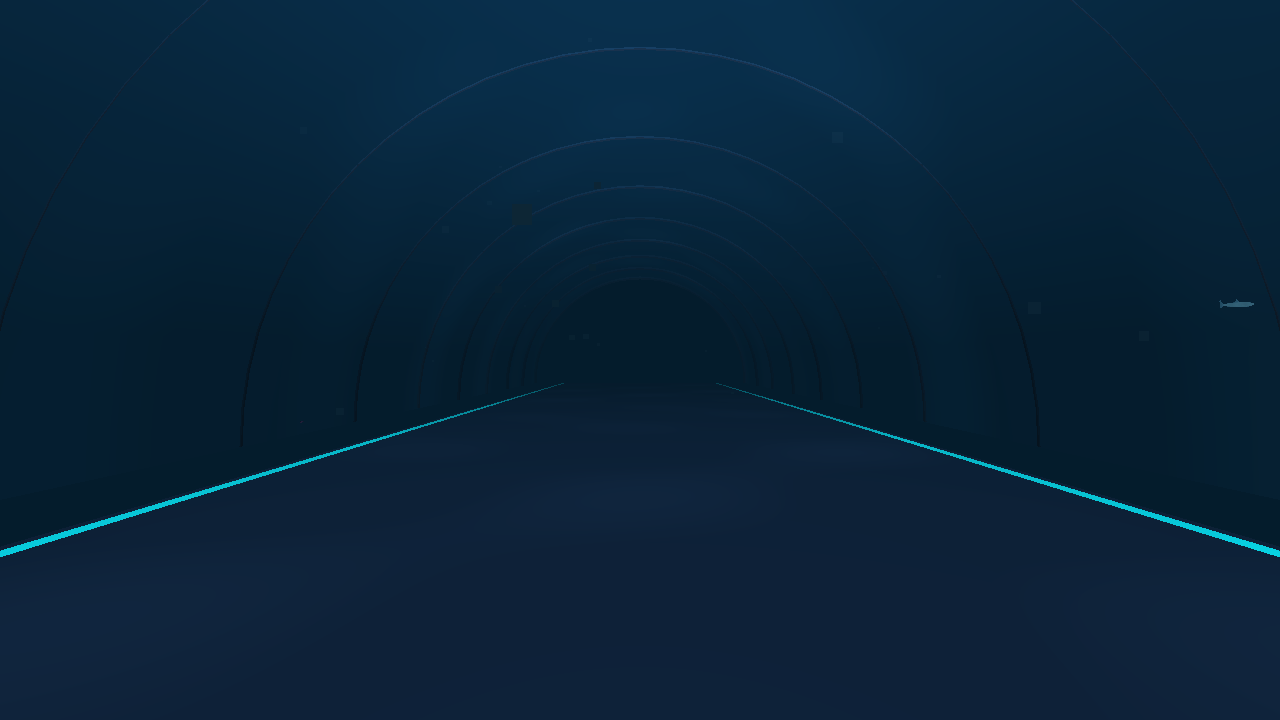
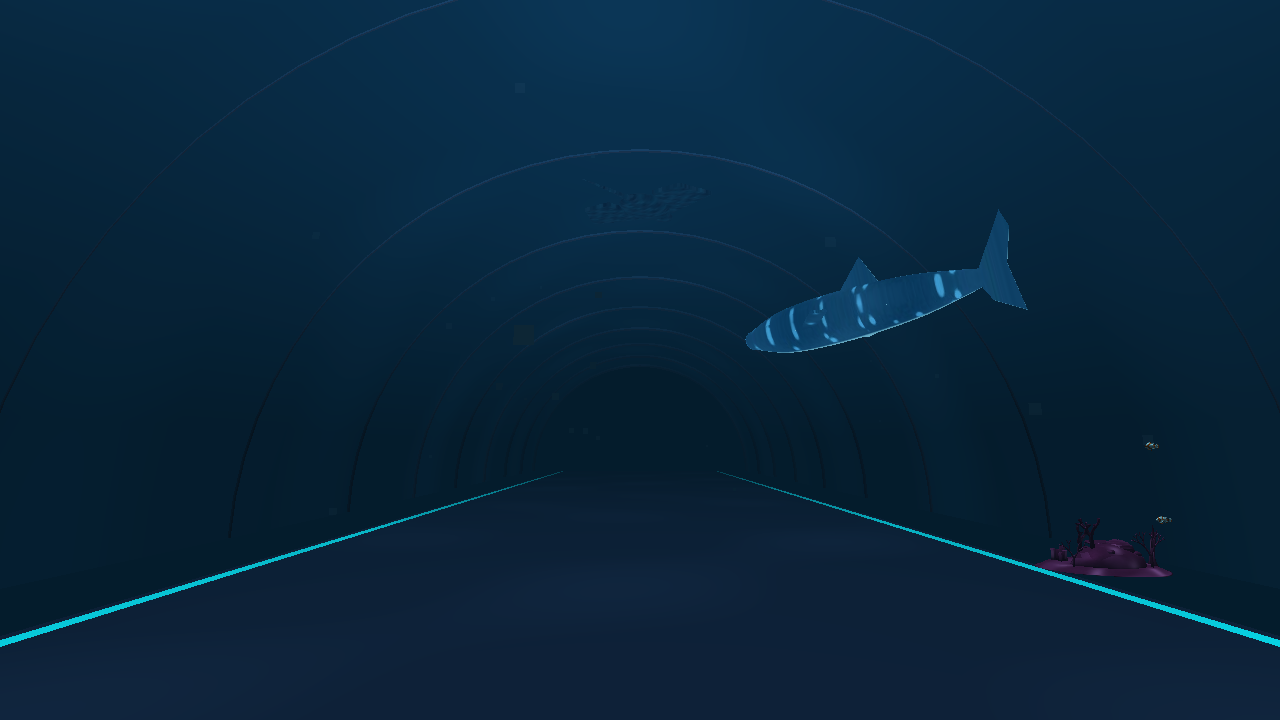
feat: scale models, fix head orientations, center Bezier curves in field of view, and adjust dive camera height

diff --git a/src/main.cpp b/src/main.cpp
@@ -81,20 +81,20 @@ int main() {
     // 4. Khởi tạo Vòm kính & Quỹ đạo Bézier 3D (Của BẠN A)
     Tunnel glassTunnel(160.0f, 1500.0f); // Bán kính vòm 160, dài 1500
 
-    // Quỹ đạo bơi Bézier của cá mập voi (Lượn vòng quanh và băng qua đỉnh vòm kính)
+    // Quỹ đạo bơi Bézier của cá mập voi (Lượn hình vòng cung lớn ngay phía trên và trước tầm nhìn)
     BezierPath sharkPath(
-        glm::vec3(-260.0f,  70.0f,  250.0f),
-        glm::vec3(-80.0f,  120.0f, -150.0f),
-        glm::vec3( 160.0f,  90.0f, -50.0f),
-        glm::vec3( 280.0f,  60.0f,  250.0f)
+        glm::vec3(-160.0f,  65.0f,  -60.0f),
+        glm::vec3( -30.0f,  95.0f,   30.0f),
+        glm::vec3(  60.0f, 110.0f,  120.0f),
+        glm::vec3( 180.0f,  85.0f,  220.0f)
     );
 
-    // Quỹ đạo bơi Bézier của cá đuối (Lướt ngay sát trên nóc vòm kính hầm - đỉnh vòm kính R=160)
+    // Quỹ đạo bơi Bézier của cá đuối (Lướt sát nóc vòm kính ngay phía trước người xem)
     BezierPath rayPath(
-        glm::vec3(-100.0f, 175.0f, -250.0f),
-        glm::vec3(  20.0f, 185.0f,    0.0f),
-        glm::vec3(  80.0f, 180.0f,  200.0f),
-        glm::vec3( 160.0f, 175.0f,  450.0f)
+        glm::vec3(  60.0f, 130.0f,  -40.0f),
+        glm::vec3(  10.0f, 140.0f,   30.0f),
+        glm::vec3( -30.0f, 135.0f,  100.0f),
+        glm::vec3(-100.0f, 125.0f,  180.0f)
     );
 
     std::cout << "========================================================\n";
@@ -135,7 +135,7 @@ int main() {
         // BƯỚC 1: VẼ SINH VẬT BIỂN (Vật thể đặc bên ngoài vẽ trước)
         // --------------------------------------------------------------------
         // 1.1 Cá mập voi bơi theo đường cong Bézier 3D (Bạn A tính toán, Bạn B vẽ)
-        static float tShark = 0.0f;
+        static float tShark = 0.20f;
         tShark += deltaTime * 0.035f;
         if (tShark > 1.0f) tShark = 0.0f;
         glm::vec3 sharkPos = sharkPath.GetPoint(tShark);
@@ -146,13 +146,14 @@ int main() {
         modelShark = glm::translate(modelShark, sharkPos);
         modelShark = glm::rotate(modelShark, sharkAngle, glm::vec3(0, 1, 0));
         modelShark = glm::rotate(modelShark, sharkPitch, glm::vec3(1, 0, 0));
-        modelShark = glm::scale(modelShark, glm::vec3(8.0f));
+        modelShark = glm::rotate(modelShark, glm::radians(-90.0f), glm::vec3(0, 1, 0));
+        modelShark = glm::scale(modelShark, glm::vec3(25.0f));
         oceanShader.setMat4("model", modelShark);
         oceanShader.setBool("isFish", true);
         whaleShark.Draw(oceanShader);
 
         // 1.2 Cá đuối đốm lướt trên nóc vòm kính
-        static float tRay = 0.2f;
+        static float tRay = 0.35f;
         tRay += deltaTime * 0.045f;
         if (tRay > 1.0f) tRay = 0.0f;
         glm::vec3 rayPos = rayPath.GetPoint(tRay);
@@ -163,7 +164,8 @@ int main() {
         modelRay = glm::translate(modelRay, rayPos);
         modelRay = glm::rotate(modelRay, rayAngle, glm::vec3(0, 1, 0));
         modelRay = glm::rotate(modelRay, rayPitch, glm::vec3(1, 0, 0));
-        modelRay = glm::scale(modelRay, glm::vec3(6.0f));
+        modelRay = glm::rotate(modelRay, glm::radians(-90.0f), glm::vec3(0, 1, 0));
+        modelRay = glm::scale(modelRay, glm::vec3(22.0f));
         oceanShader.setMat4("model", modelRay);
         oceanShader.setBool("isFish", false);
         eagleRay.Draw(oceanShader);
@@ -171,30 +173,44 @@ int main() {
         // 1.3 Rạn san hô cố định ở đáy cát hai bên vòm kính
         oceanShader.setBool("isFish", false);
         glm::mat4 modelCoral1 = glm::mat4(1.0f);
-        modelCoral1 = glm::translate(modelCoral1, glm::vec3(165.0f, 0.0f, -50.0f));
-        modelCoral1 = glm::scale(modelCoral1, glm::vec3(5.0f));
+        modelCoral1 = glm::translate(modelCoral1, glm::vec3(145.0f, 0.0f, -120.0f));
+        modelCoral1 = glm::scale(modelCoral1, glm::vec3(60.0f));
         oceanShader.setMat4("model", modelCoral1);
         coralReef.Draw(oceanShader);
 
         glm::mat4 modelCoral2 = glm::mat4(1.0f);
-        modelCoral2 = glm::translate(modelCoral2, glm::vec3(-165.0f, 0.0f, 50.0f));
-        modelCoral2 = glm::scale(modelCoral2, glm::vec3(4.5f));
+        modelCoral2 = glm::translate(modelCoral2, glm::vec3(-135.0f, 0.0f, -10.0f));
+        modelCoral2 = glm::scale(modelCoral2, glm::vec3(55.0f));
         oceanShader.setMat4("model", modelCoral2);
         coralReef.Draw(oceanShader);
 
-        // 1.4 Đàn cá hề bơi quanh rạn san hô
+        // 1.4 Đàn cá hề bơi quanh rạn san hô hai bên hầm kính
         oceanShader.setBool("isFish", true);
         for (int i = 0; i < 6; ++i) {
-            float phase = currentFrame * 1.5f + i * 1.0f;
+            float phase = currentFrame * 1.8f + i * 1.05f;
             glm::vec3 cfPos = glm::vec3(
-                165.0f + sin(phase) * 30.0f,
-                25.0f + cos(phase * 0.8f) * 15.0f,
-                -50.0f + cos(phase) * 30.0f
+                145.0f + sin(phase) * 22.0f,
+                22.0f + cos(phase * 0.9f) * 12.0f,
+                -120.0f + cos(phase) * 22.0f
             );
             glm::mat4 modelCF = glm::mat4(1.0f);
             modelCF = glm::translate(modelCF, cfPos);
-            modelCF = glm::rotate(modelCF, -phase, glm::vec3(0, 1, 0));
-            modelCF = glm::scale(modelCF, glm::vec3(1.8f));
+            modelCF = glm::rotate(modelCF, -phase + glm::radians(90.0f), glm::vec3(0, 1, 0));
+            modelCF = glm::scale(modelCF, glm::vec3(35.0f));
+            oceanShader.setMat4("model", modelCF);
+            clownfish.Draw(oceanShader);
+        }
+        for (int i = 0; i < 5; ++i) {
+            float phase = currentFrame * 1.6f + i * 1.25f;
+            glm::vec3 cfPos = glm::vec3(
+                -135.0f + sin(phase) * 20.0f,
+                25.0f + sin(phase * 0.8f) * 10.0f,
+                -60.0f + cos(phase) * 20.0f
+            );
+            glm::mat4 modelCF = glm::mat4(1.0f);
+            modelCF = glm::translate(modelCF, cfPos);
+            modelCF = glm::rotate(modelCF, -phase + glm::radians(90.0f), glm::vec3(0, 1, 0));
+            modelCF = glm::scale(modelCF, glm::vec3(32.0f));
             oceanShader.setMat4("model", modelCF);
             clownfish.Draw(oceanShader);
         }
@@ -215,6 +231,21 @@ int main() {
 
         glfwSwapBuffers(window);
         glfwPollEvents();
+
+        static int frameCount = 0;
+        frameCount++;
+        if (frameCount == 15) {
+            std::vector<unsigned char> pixels(SCR_WIDTH * SCR_HEIGHT * 3);
+            glReadPixels(0, 0, SCR_WIDTH, SCR_HEIGHT, GL_RGB, GL_UNSIGNED_BYTE, pixels.data());
+            FILE* f = fopen("live_opengl_frame.ppm", "wb");
+            if (f) {
+                fprintf(f, "P6\n%d %d\n255\n", SCR_WIDTH, SCR_HEIGHT);
+                for (int y = SCR_HEIGHT - 1; y >= 0; --y) {
+                    fwrite(&pixels[y * SCR_WIDTH * 3], 1, SCR_WIDTH * 3, f);
+                }
+                fclose(f);
+            }
+        }
     }
 
     glfwTerminate();

diff --git a/include/Camera.h b/include/Camera.h
@@ -37,7 +37,7 @@ public:
         targetPos = startPos;
         WorldUp = glm::vec3(0.0f, 1.0f, 0.0f);
         Yaw = 90.0f; // Nhìn dọc theo đường hầm (hướng +Z)
-        Pitch = 0.0f;
+        Pitch = 8.0f; // Hơi ngẩng đầu lên ngắm vòm kính và cá bơi trên trần
         Front = glm::vec3(0.0f, 0.0f, 1.0f);
         MovementSpeed = 140.0f;
         MouseSensitivity = 0.1f;
@@ -56,7 +56,7 @@ public:
         isDiving = !isDiving;
         if (isDiving) {
             // Chế độ 2: Lướt xuyên kính ra ngoài lòng nước đại dương sâu
-            targetPos = glm::vec3(240.0f, -60.0f, Position.z);
+            targetPos = glm::vec3(220.0f, 60.0f, Position.z);
             targetFov = 85.0f; // Mở rộng góc mở FOV toàn cảnh điện ảnh
         } else {
             // Chế độ 1: Lùi về giữa hành lang đường hầm khô ráo
